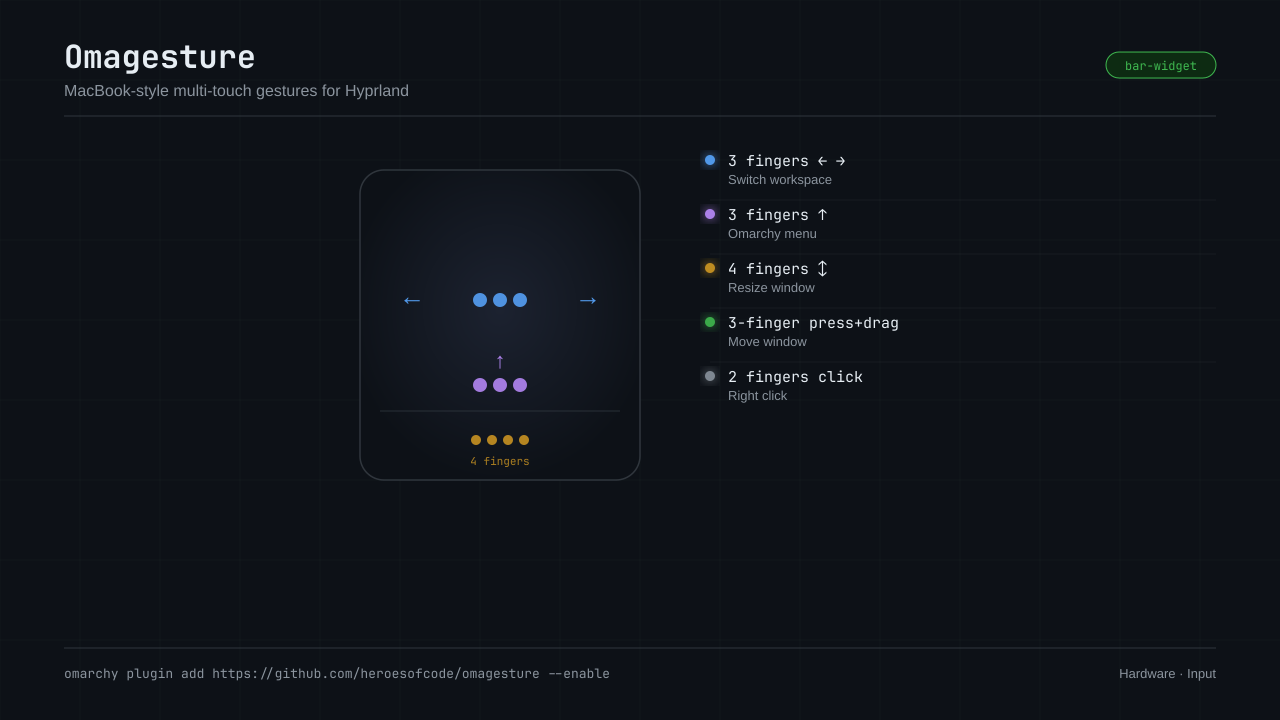
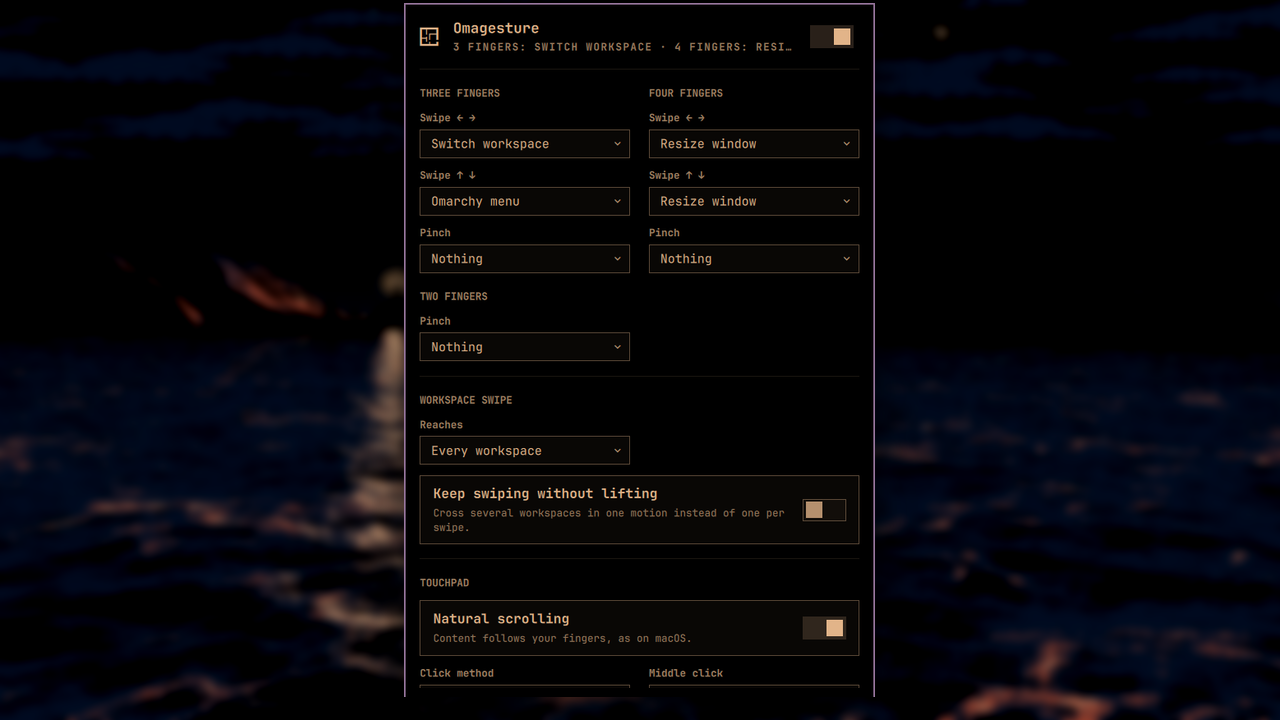
Use a real panel screenshot as the preview and show it in the README
Replaces the generated diagram with the actual bar panel captured over the
theme wallpaper, and points the install URL at the canonical org repo.

diff --git a/README.md b/README.md
@@ -6,10 +6,12 @@ Three fingers slide between workspaces, and the workspace follows your fingers
 in real time rather than jumping at the end of the swipe — that part is
 Hyprland's native `workspace` gesture action, not a script pretending.
 
+![The Omagesture panel in the Omarchy bar](preview.png)
+
 ## Install
 
 ```bash
-omarchy plugin add https://github.com/pedrohfp/omagesture --enable
+omarchy plugin add https://github.com/heroesofcode/omagesture --enable
 ```
 
 Needs Omarchy 4 (for the bar plugin API) and a multi-touch trackpad. It was
